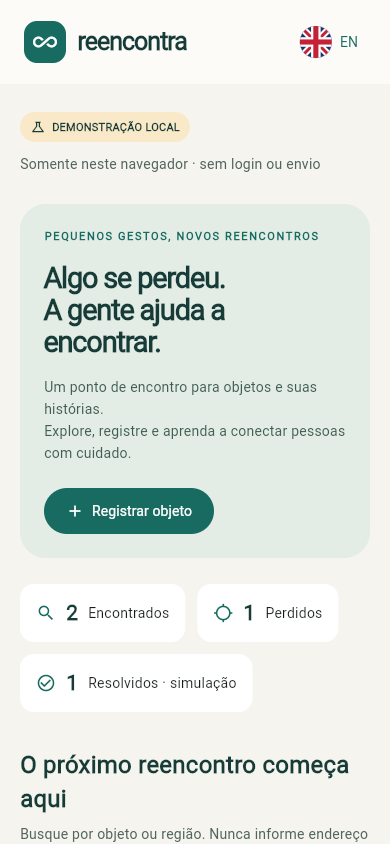
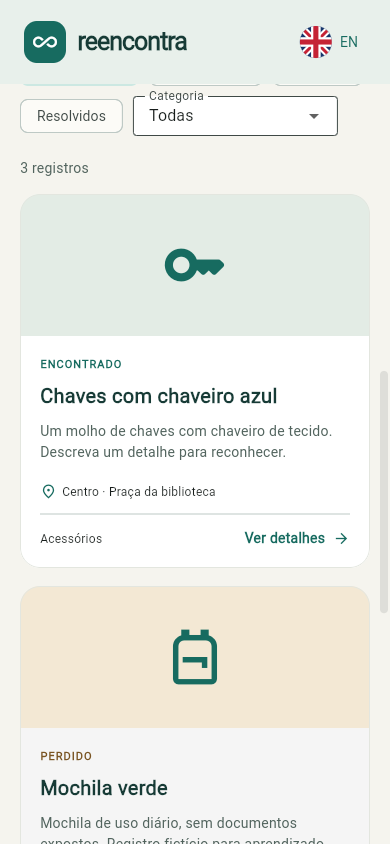
docs: include mobile capture and record delivery boundary
Include the inspected scrolled mobile capture and record the actual push approval block. All eleven tests, static analysis, release Web build and real Chrome workflows are verified locally; remote CI and deployment are not claimed.

diff --git a/docs/work-log.md b/docs/work-log.md
@@ -11,4 +11,4 @@
 - Inspected the real HTTP-served Web build with Chrome, including persistent examples after reload. Captured desktop/mobile application PNGs with synthetic data and created a clearly labeled conceptual SVG cover.
 - Added a closed Firestore rules/configuration starting point and concrete backend contract. Documented absent emulator execution, native device tests, remote identity and production services.
 - Replaced the README with reproducible setup, architecture, actual APIs, screenshots, limits and credits. Added CONTRIBUTING, CHANGELOG, MIT licensing for the user-owned source, validation notes and a complete Portuguese lesson revision ending in exactly five exercises. Recorded missing Medium editorial access without blocking the app.
-- Updated and read back GitHub description and seven topics. Prepared ordered implementation/documentation commits; code push and CI status are recorded in the final delivery.
+- Updated and read back GitHub description and seven topics. Created ordered implementation/documentation commits. Automatic approval review rejected the code push, requiring specific user approval for this new application. No workaround was attempted; the complete local delivery is ready, while remote CI remains unrun. No application hosting or backend deployment was attempted.

diff --git a/docs/validation.md b/docs/validation.md
@@ -32,7 +32,7 @@ The installed development guidance referred to `crapper`, `dryer` and `mutator`;
 5. Toggle PT-BR/EN; user content persists. Inspect desktop and mobile controls and keyboard focus.
 6. Simulate corrupt storage or failed writes using tests; verify records are not silently replaced and retries work.
 
-GitHub metadata is updated with a descriptive summary and seven relevant topics. CI configuration runs analysis, tests and Web build; remote CI results are reported separately from local results.
+GitHub metadata is updated with a descriptive summary and seven relevant topics. CI configuration runs analysis, tests and Web build. The automatic approval review rejected the code push because it required specific approval for sending this application to GitHub; no push or remote CI run is claimed. All implementation and documentation commits are ready locally. No deployment was attempted.
 
 ## Repeat the browser check
 

diff --git a/README.md b/README.md
@@ -49,7 +49,7 @@ Desktop capture of the actual compiled Web application with explicitly loaded fi
 
 Mobile browser viewport, not an Android/iOS device certification. The cover above is a separate conceptual SVG illustration.
 
-![Mobile search, filters and fictional listing cards.](docs/screenshots/mobile-listings.png)
+![Mobile filters and fictional listing cards.](docs/screenshots/mobile-listings.png)
 
 ## Architecture and examples
 
